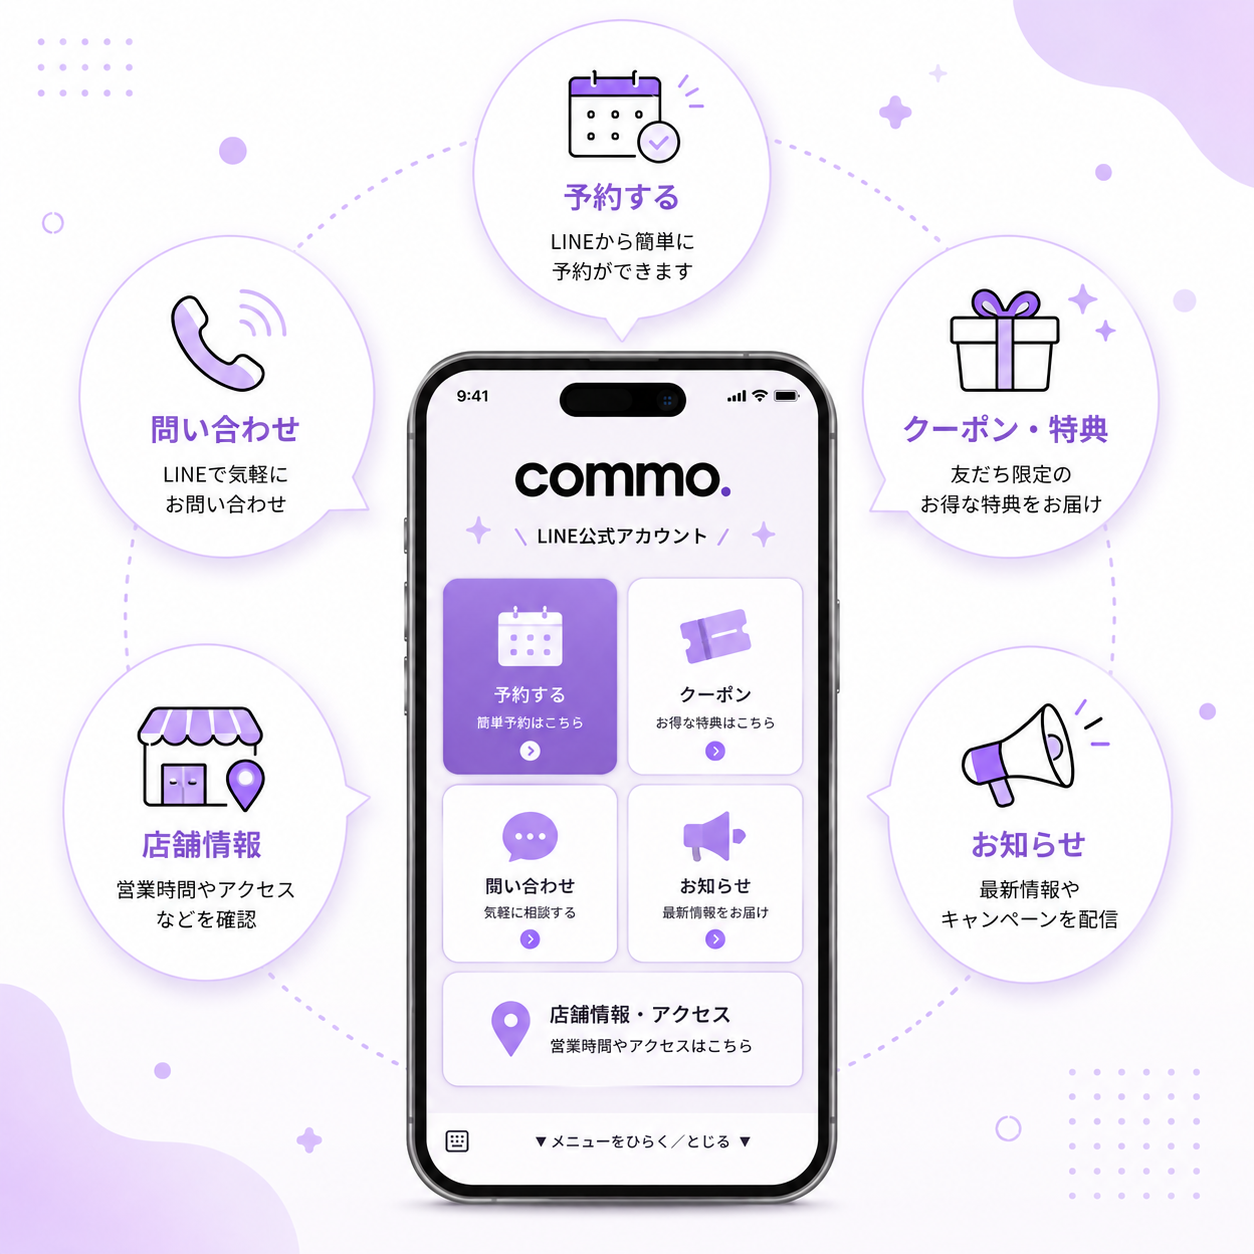
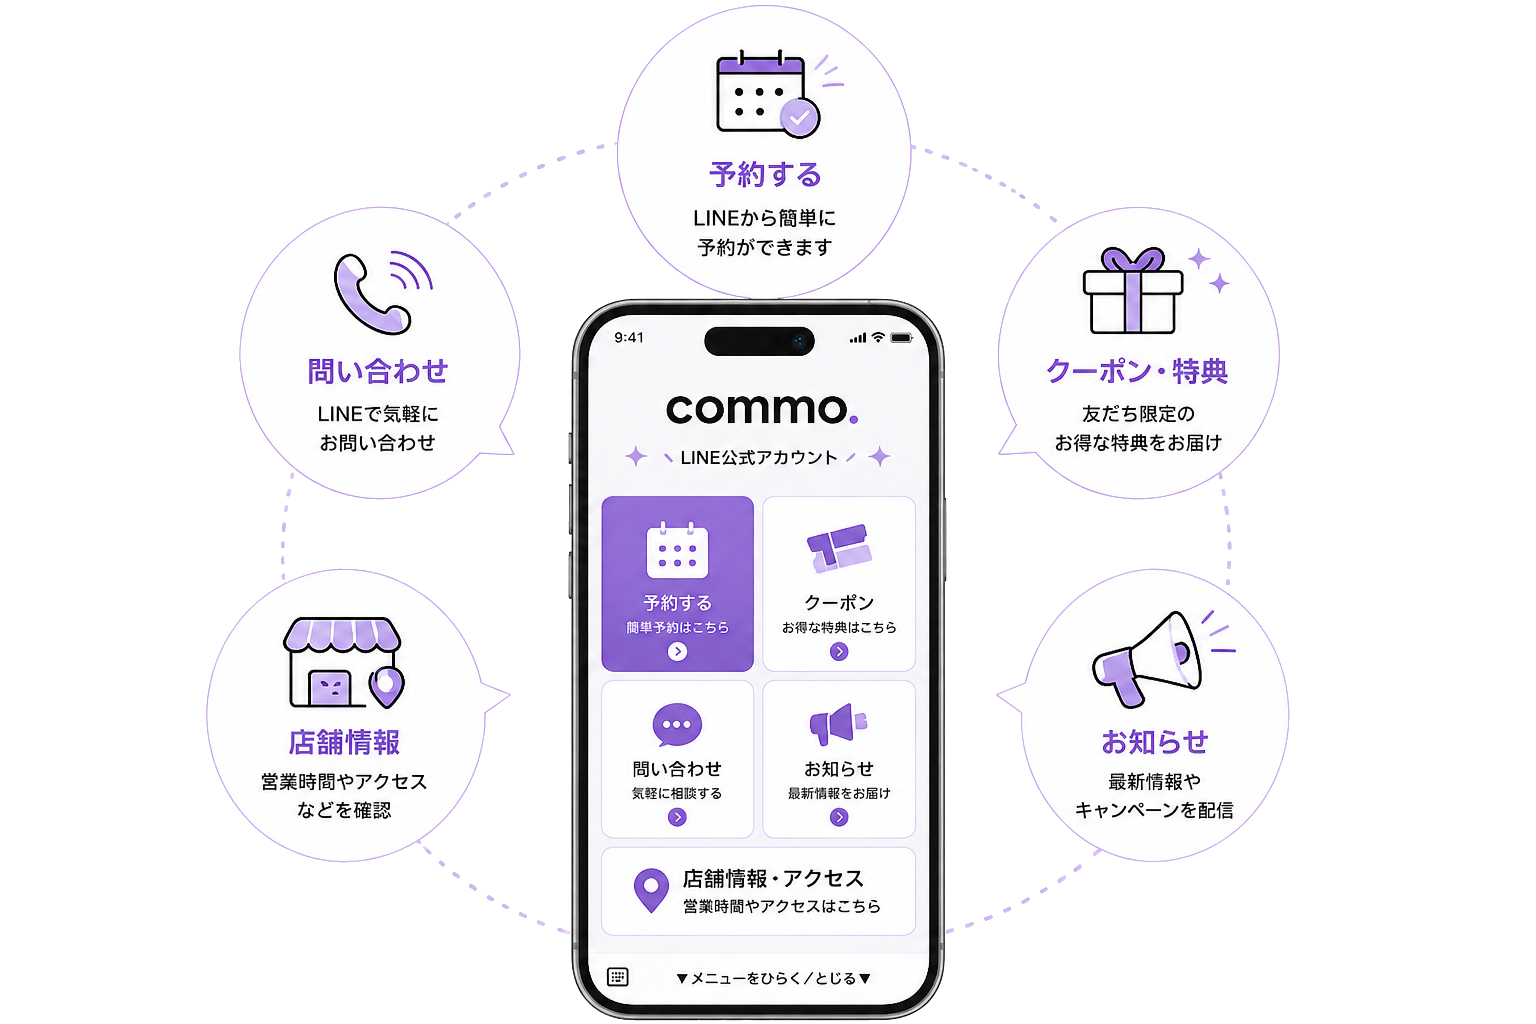
Adjust responsive typography and market image

diff --git a/app/page.tsx b/app/page.tsx
@@ -39,10 +39,10 @@ export default function Home() {
             </nav>
             <a
               href="/contact"
-              className="focus-ring inline-flex items-center justify-center gap-2 rounded-full bg-brand-500 px-5 py-3 text-sm font-bold text-white shadow-sm transition hover:bg-brand-600"
+              className="focus-ring inline-flex items-center justify-center gap-1.5 rounded-full bg-brand-500 px-3 py-1.5 text-[7.5px] font-bold text-white shadow-sm transition hover:bg-brand-600 sm:gap-2 sm:px-5 sm:py-3 sm:text-sm"
             >
               お問い合わせはコチラ
-              <ArrowRight aria-hidden="true" size={17} />
+              <ArrowRight aria-hidden="true" className="h-2.5 w-2.5 sm:h-[17px] sm:w-[17px]" />
             </a>
           </div>
         </div>
@@ -54,7 +54,7 @@ export default function Home() {
         <div className="section-shell grid gap-10 lg:grid-cols-2 lg:items-center">
           <div className="max-w-2xl">
             <p className="text-sm font-bold text-brand-500">Market Shift</p>
-            <h2 className="mt-3 text-3xl font-bold leading-tight text-brand-900 sm:text-4xl">
+            <h2 className="mt-3 text-[22.5px] font-bold leading-tight text-brand-900 sm:text-4xl">
               今、多くの店舗で
               <span className="mx-1 bg-gradient-to-t from-brand-100 via-brand-100 to-transparent px-1">
                 公式LINE
@@ -78,7 +78,7 @@ export default function Home() {
               alt=""
               fill
               sizes="(min-width: 1024px) 50vw, 100vw"
-              className="object-contain p-6"
+              className="scale-110 object-contain p-0"
             />
           </div>
         </div>

diff --git a/app/contact/page.tsx b/app/contact/page.tsx
@@ -33,7 +33,7 @@ export default function ContactPage() {
           <p className="text-sm font-bold text-brand-500">Contact</p>
           <h1 className="mt-3 text-3xl font-bold text-brand-900 sm:text-4xl">お問い合わせ</h1>
           <p className="mt-5 text-sm leading-7 text-slate-600 sm:text-base sm:leading-8">
-            commo.に関するご相談・お問い合わせは、以下のフォームよりご連絡ください。
+            commo<span className="text-brand-500">.</span>に関するご相談・お問い合わせは、以下のフォームよりご連絡ください。
           </p>
 
           <div className="mt-10 rounded-[2rem] bg-neutral-100 p-6 sm:p-8">

diff --git a/components/BenefitSection.tsx b/components/BenefitSection.tsx
@@ -41,7 +41,7 @@ export default function BenefitSection() {
       <div className="section-shell">
         <div className="max-w-3xl">
           <p className="text-sm font-bold text-brand-500">Merit</p>
-          <h2 className="mt-3 text-3xl font-bold text-brand-900 sm:text-4xl">LINE友だち登録のメリット</h2>
+          <h2 className="mt-3 text-[22.5px] font-bold text-brand-900 sm:text-4xl">LINE友だち登録のメリット</h2>
         </div>
         <div className="mt-10 grid gap-5 md:grid-cols-2 lg:grid-cols-3">
           {benefits.map((item, index) => (

diff --git a/components/FlowSection.tsx b/components/FlowSection.tsx
@@ -64,7 +64,7 @@ export default function FlowSection() {
               >
                 <h3
                   className={`rounded-full bg-brand-500 px-6 py-3.5 font-bold text-white ${
-                    step.repeatSteps ? "text-xl lg:text-2xl" : "text-lg"
+                    step.repeatSteps ? "text-base sm:text-xl lg:text-2xl" : "text-lg"
                   }`}
                 >
                   {step.title}

diff --git a/components/ProblemSection.tsx b/components/ProblemSection.tsx
@@ -59,7 +59,7 @@ export default function ProblemSection() {
     <section id="problems" className="bg-white py-20 sm:py-24">
       <div className="section-shell">
         <div className="text-center">
-          <h2 className="text-3xl font-bold text-brand-900 sm:text-4xl">
+          <h2 className="text-[15px] font-bold text-brand-900 sm:text-4xl">
             ＼ こんなお悩み ありませんか？ ／
           </h2>
         </div>